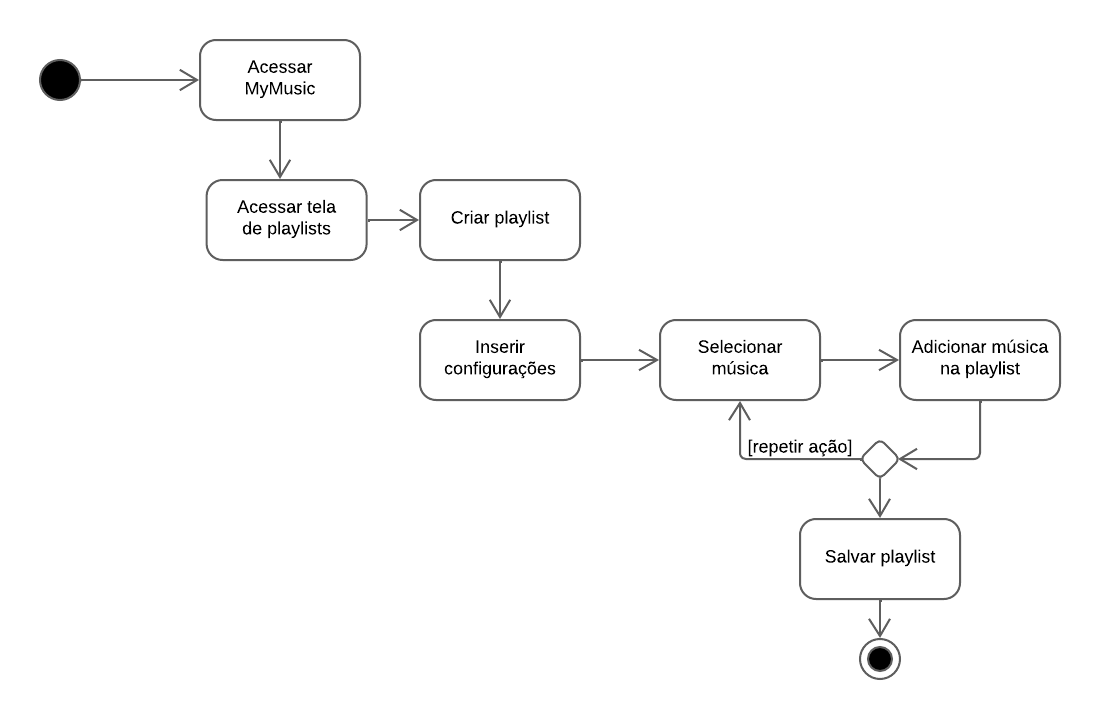
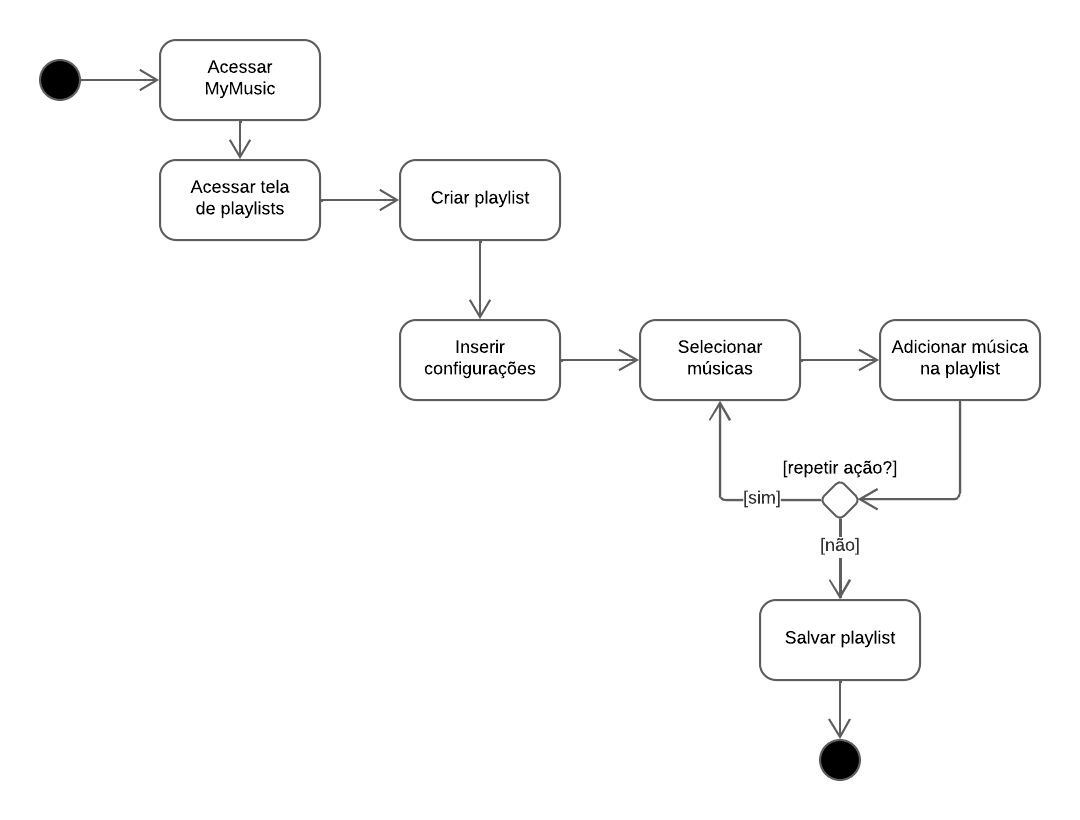
fix: correções ao diagrama de atividades

diff --git a/docs/Modelagem/diagramaAtividades.md b/docs/Modelagem/diagramaAtividades.md
@@ -4,7 +4,11 @@ O Diagrama de Atividades, é um diagrama dinâmico que dentro da linguagem de mo
 Este diagrama é amplamente utilizado em engenharia de software e em outras áreas para modelar processos, sistemas e comportamentos complexos, fornecendo uma representação visual clara e compreensível do fluxo de atividades em um sistema.
 
 ## Metodologia
-Para realizar a modelagem do Diagrama de Atividades, a equipe utilizou a ferramenta [LucidChart](https://www.lucidchart.com/pages/pt), que é um site de modelagem de diagramas, que permite ao seus clientes utilizarem a linguagem UML e oferece um serviço de compartilhamento ao vivo com outros usuários.
+O desenvolvimento desta modelagem foi realizada individualmente pelo membro [Vinícius Mendes](https://github.com/yabamiah). No processo de desenvolvimento do diagrama de atividades, foi utilizado como referência o site da [organização do UML](https://www.uml-diagrams.org/)<sup>[1](#referência-bibliográfica)</sup>, e como princial guia para a modelagem o [protótipo de alta fidelidade](https://unbarqdsw2024-1.github.io/2024.1_G2_My_Music/Base/prototipo/)<sup>[2](#referência-bibliográfica)</sup>, na qual através deste artefato é possível traçar atividades que o usuário possa executar.
+
+Para a modelagem do diagrama de atividades, a equipe utilizou a ferramenta [LucidChart](https://www.lucidchart.com/pages/pt), que é um site de modelagem de diagramas, que permite ao seus clientes utilizarem a linguagem UML e oferece um serviço de compartilhamento ao vivo com outros usuários.
+
+Após a finalização da modelagem inicial do diagrama de atividades, este artefato foi submetido à revisão para os membros da equipe, que podem ser visualizados no [histórico de versões](#histórico-de-versões). Dois membros forneceram feedbacks, incluindo sugestões e critícas construtivas sobre o que melhorar, esses feedbacks podem ser visualizados no pull request [Atualização diagrama de atividades #38](https://github.com/UnBArqDsw2024-1/2024.1_G2_My_Music/pull/38).
 
 ## Diagramas de Atividades
 Logo abaixo você encontra as figuras que representam atividades do aplicativo My Music em diagramas de atividades.
@@ -45,6 +49,11 @@ A figura 4 a seguir representa a modelagem da atividade de criar playlist.
   <p>Figura 4: Diagrama de criar playlist. (Fonte: Vinícius Mendes, 2024)</p>
 </div>
 
+## Referência Bibliográfica
+> The Unified Modeling Languag Org. Activity Diagrams, 2011. Disponível em: https://www.uml-diagrams.org/activity-diagrams.html. Acesso em: 12 de Abril. [1]
+
+> MyMusic. 1.1.4 Protótipo, 2024. Disponível em: https://unbarqdsw2024-1.github.io/2024.1_G2_My_Music/Base/prototipo/. Acesso em: 7 de Julho. [2]
+
 ## Bibliografia 
 > The Unified Modeling Languag Org. Activity Diagrams, 2011. Disponível em: https://www.uml-diagrams.org/activity-diagrams.html. Acesso em: 12 de Abril.
 
@@ -53,6 +62,6 @@ A figura 4 a seguir representa a modelagem da atividade de criar playlist.
 | Versão | Data       | Descrição                                   | Autor(es)       | Revisor(es) |
 | ------ | ---------- | ------------------------------------------- | --------------- | ----------- |
 | 1.0    | 12/04/2024 | Criação do documento Diagrama de Atividades | [Vinícius Mendes](https://github.com/yabamiah) | [Luis Miranda](https://github.com/LuisMiranda10)            |
-| 1.1    | 07/07/2024 | Atualização do documento Diagrama de Atividades | [Vinícius Mendes](https://github.com/yabamiah) | [Luis Miranda](https://github.com/LuisMiranda10)            |
+| 1.1    | 07/07/2024 | Atualização do documento Diagrama de Atividades | [Vinícius Mendes](https://github.com/yabamiah) | [Luis Miranda](https://github.com/LuisMiranda10)  e  [Israel Thalles](https://github.com/IsraelThalles)          |
 | 1.2    | 15/07/2024 | Padronização das legendas | [Ana Luíza Rodrigues](https://github.com/analuizargds) | -            |
-
+| 2.0 | 19/07/2024 | Correção após a entrega | [Vinícius Mendes](https://github.com/yabamiah) | |
